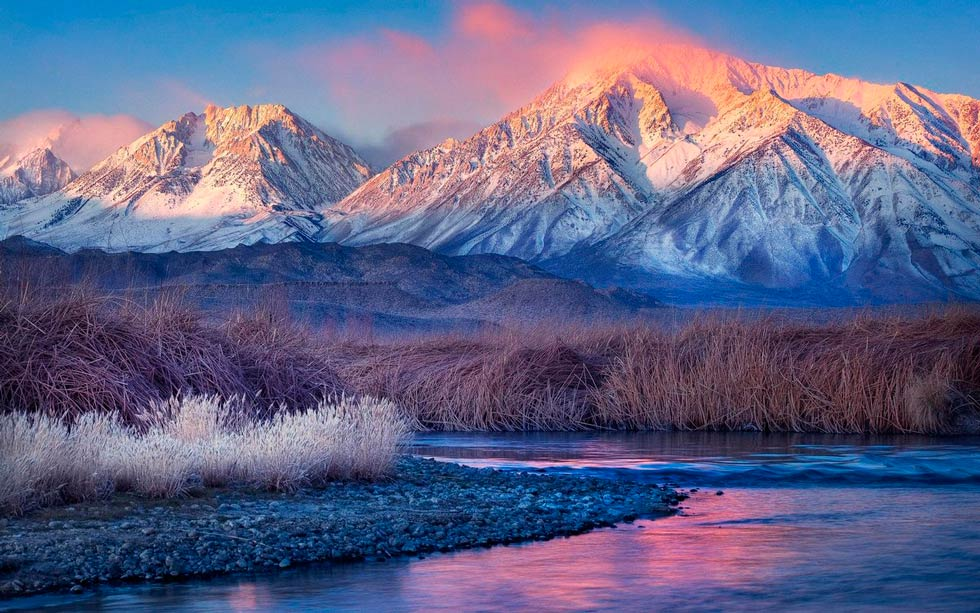
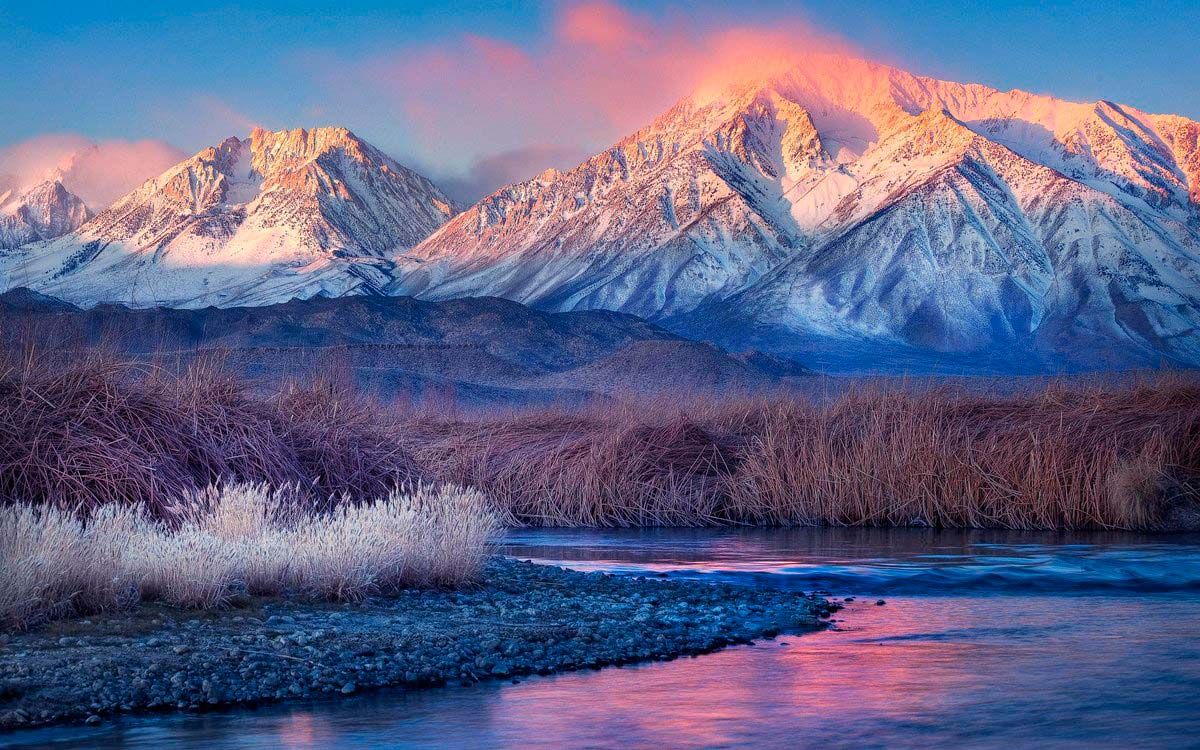
Initial

diff --git a/css/index.css b/css/index.css
@@ -31,7 +31,7 @@ body {
     display: grid;
     grid-template-columns: 1fr;
     background: #1482b9;
-    border: 2px solid var(--h3-menuborder-footerbg);
+    /*border: 2px solid var(--h3-menuborder-footerbg);*/
     color: #ebebeb;
     text-align: center;
     font-family: "Baumans", sans-serif;
@@ -142,10 +142,12 @@ body {
     align-items: center;
     justify-content: center;
     background-image: url('../images/background.jpg');
+    /*height: 500px;*/
     min-height: 80vh;
     background-size: cover;
-    /*background-position: center;*/
+    background-position: center;
     background-attachment: fixed;
+    /*background-repeat: no-repeat;*/
 }
 
 @media (min-width: 540px) {
